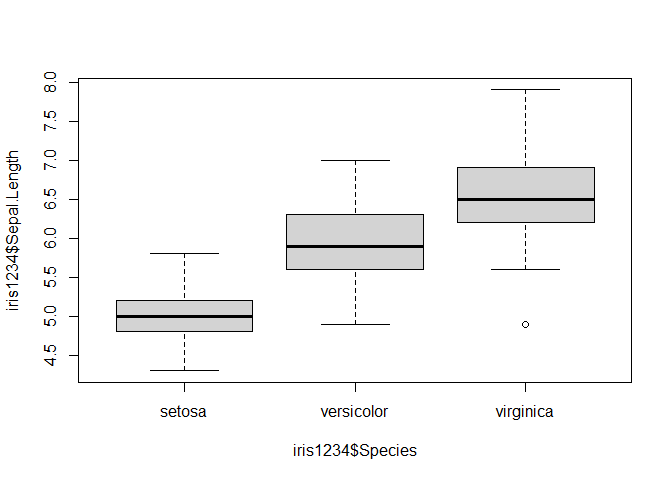
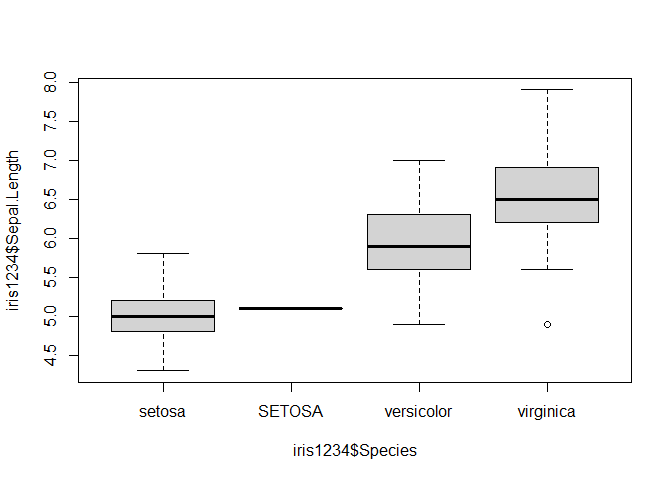
Expanded Manipulation section and general cleanup.

diff --git a/README.md b/README.md
@@ -57,10 +57,12 @@ plot(pressure)
 
   - <https://stackoverflow.com/a/39816334>
 
-## Branch: `tutorial`
+-----
+
+## Intermediate Tutorial
 
 The following is an intermediate tutorial on data handling,
-manipulation, processing, and reporting.
+manipulation, processing, and reporting in the R language.
 
 An introduction to the R language can be found here: [Introduction to
 Programming (in
@@ -292,6 +294,83 @@ str(iris1234)
     ##  $ Petal.Width : num  0.2 0.2 0.2 0.2 0.2 0.4 0.3 0.2 0.2 0.1 ...
     ##  $ Species     : chr  "setosa" "setosa" "setosa" "setosa" ...
 
+New columns can be added by specifying a column name that is not
+currently used and populating it:
+
+``` r
+iris1234$test = paste("test", nrow(iris1234):1)
+head(iris1234, n = 2)
+```
+
+    ##   id Sepal.Length Sepal.Width Petal.Length Petal.Width Species     test
+    ## 1  1          5.1         3.5          1.4         0.2  setosa test 150
+    ## 2  2          4.9         3.0          1.4         0.2  setosa test 149
+
+Existing columns can be removed:
+
+``` r
+iris1234$test = NULL
+head(iris1234, n = 2)
+```
+
+    ##   id Sepal.Length Sepal.Width Petal.Length Petal.Width Species
+    ## 1  1          5.1         3.5          1.4         0.2  setosa
+    ## 2  2          4.9         3.0          1.4         0.2  setosa
+
+New rows can be added with the concatenating `rbind` function above
+(must have the same columns):
+
+``` r
+new_row = data.frame(id = 151, Sepal.Length = NA, Sepal.Width = NA, Petal.Length = NA, Petal.Width = NA, Species = "test")
+iris1234 = rbind(iris1234, new_row)
+tail(iris1234, n = 2)
+```
+
+    ##      id Sepal.Length Sepal.Width Petal.Length Petal.Width   Species
+    ## 150 150          5.9           3          5.1         1.8 virginica
+    ## 151 151           NA          NA           NA          NA      test
+
+Existing rows can be removed:
+
+``` r
+iris1234 = iris1234[iris1234$id != 151,]
+tail(iris1234, n = 2)
+```
+
+    ##      id Sepal.Length Sepal.Width Petal.Length Petal.Width   Species
+    ## 149 149          6.2         3.4          5.4         2.3 virginica
+    ## 150 150          5.9         3.0          5.1         1.8 virginica
+
+By combining subsetting and manipulation, very specific data can be
+identified:
+
+``` r
+iris_filtered = iris1234[iris1234$Sepal.Length > 5 & iris1234$Species == "setosa", "id"]
+```
+
+..or removed:
+
+``` r
+iris_filtered = iris1234[iris1234$Sepal.Length <= 5 & iris1234$Species != "setosa", "id"]
+```
+
+..or replaced:
+
+``` r
+head(iris1234, n = 1)
+```
+
+    ##   id Sepal.Length Sepal.Width Petal.Length Petal.Width Species
+    ## 1  1          5.1         3.5          1.4         0.2  setosa
+
+``` r
+iris1234[iris1234$id == "1", ]$Species = "SETOSA"
+head(iris1234, n = 1)
+```
+
+    ##   id Sepal.Length Sepal.Width Petal.Length Petal.Width Species
+    ## 1  1          5.1         3.5          1.4         0.2  SETOSA
+
 ### Summarization
 
 Earlier we used the `summary()` function to quickly get information on
@@ -371,21 +450,25 @@ sd(iris1234$Sepal.Length)
 
     ## [1] 0.8280661
 
-..or all percentile bins (e.g. 25% increments):
+..or all percentile bins (e.g. 5% increments):
 
 ``` r
-quantile(iris1234$Sepal.Length, probs = c(0, 0.25, 0.5, 0.75, 1))
+quantile(iris1234$Sepal.Length, probs = c(0, 0.05, 0.1, 0.15, 0.2, 0.25, 0.3, 0.35, 0.4, 0.45, 0.5, 0.55, 0.6, 0.65, 0.7, 0.75, 0.8, 0.85, 0.9, 0.95, 1))
 ```
 
-    ##   0%  25%  50%  75% 100% 
-    ##  4.3  5.1  5.8  6.4  7.9
+    ##    0%    5%   10%   15%   20%   25%   30%   35%   40%   45%   50%   55%   60% 
+    ## 4.300 4.600 4.800 5.000 5.000 5.100 5.270 5.500 5.600 5.700 5.800 5.900 6.100 
+    ##   65%   70%   75%   80%   85%   90%   95%  100% 
+    ## 6.200 6.300 6.400 6.520 6.700 6.900 7.255 7.900
 
 ``` r
-quantile(iris1234$Sepal.Length, probs = seq(0, 1, 0.25))
+quantile(iris1234$Sepal.Length, probs = seq(0, 1, 0.05))
 ```
 
-    ##   0%  25%  50%  75% 100% 
-    ##  4.3  5.1  5.8  6.4  7.9
+    ##    0%    5%   10%   15%   20%   25%   30%   35%   40%   45%   50%   55%   60% 
+    ## 4.300 4.600 4.800 5.000 5.000 5.100 5.270 5.500 5.600 5.700 5.800 5.900 6.100 
+    ##   65%   70%   75%   80%   85%   90%   95%  100% 
+    ## 6.200 6.300 6.400 6.520 6.700 6.900 7.255 7.900
 
 ..or tabulating counts of unique values:
 
@@ -394,8 +477,8 @@ table(iris1234$Species)
 ```
 
     ## 
-    ##     setosa versicolor  virginica 
-    ##         50         50         50
+    ##     setosa     SETOSA versicolor  virginica 
+    ##         49          1         50         50
 
 ..or binning values then tabulating the bins:
 
@@ -497,7 +580,7 @@ system.time({
 ```
 
     ## elapsed 
-    ##    3.78
+    ##    3.73
 
 ``` r
 system.time({
@@ -506,7 +589,7 @@ system.time({
 ```
 
     ## elapsed 
-    ##    0.12
+    ##    0.13
 
 ``` r
 all.equal(result1, result2)
@@ -516,11 +599,9 @@ all.equal(result1, result2)
 
 TODO: Multi-threading
 
-<center>
+-----
 
-Copyright © 2020-∞
-<a href="http://www.athitkao.com" target="_blank">Athit Kao,
-<a href="http://www.athitkao.com/tos.html" target="_blank">Terms and
-Conditions</a>
+Copyright © 2020-∞ [Athit Kao](http://www.athitkao.com), [Terms and
+Conditions](http://www.athitkao.com/tos.html)
 
-</center>
+-----
